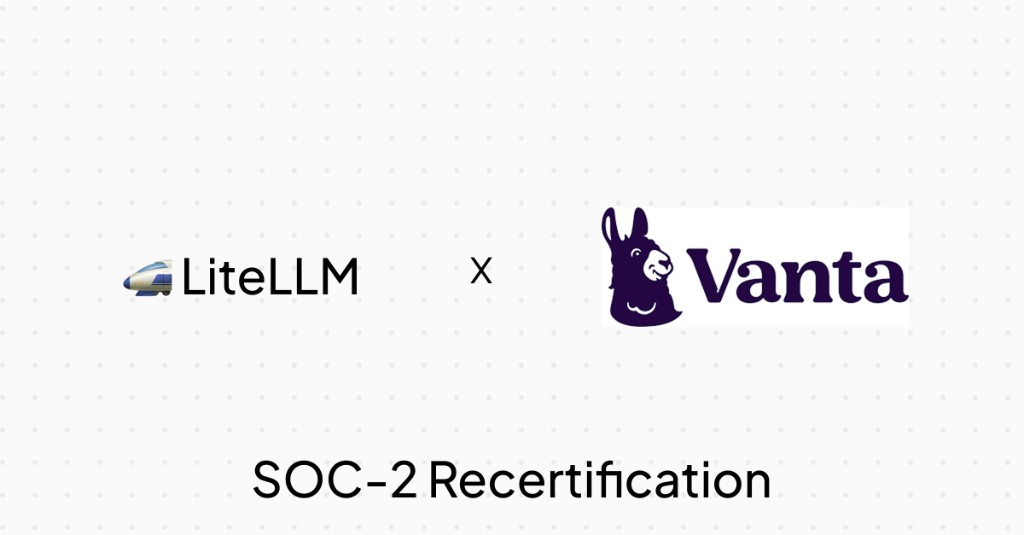
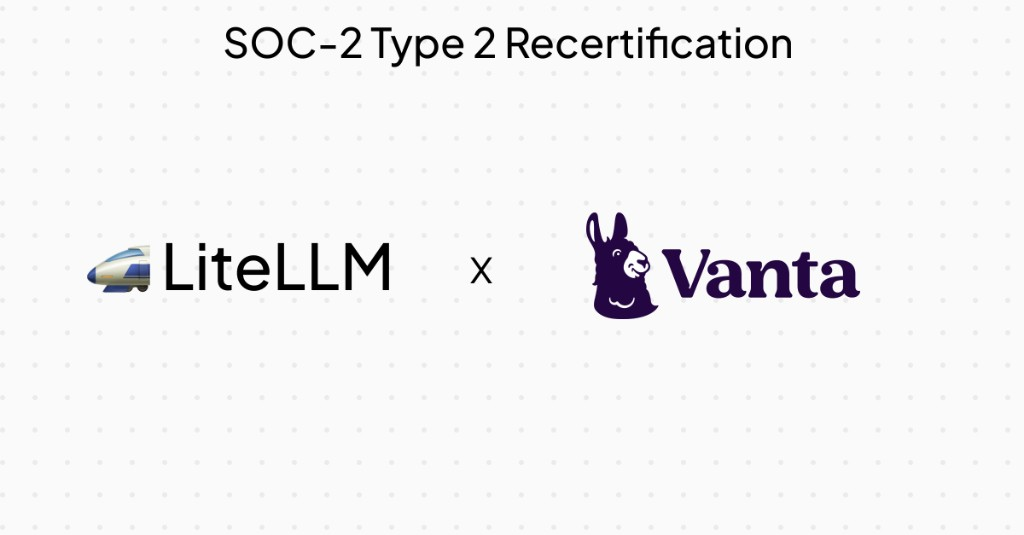
docs: cleanup image

diff --git a/docs/my-website/blog/vanta_compliance_recertification/index.md b/docs/my-website/blog/vanta_compliance_recertification/index.md
@@ -1,17 +1,17 @@
 ---
 slug: vanta-compliance-recertification
-title: "LiteLLM + Vanta: SOC 2 and ISO 27001 Recertification"
+title: "LiteLLM + Vanta: SOC 2 Type 2 and ISO 27001 Recertification"
 date: 2026-03-30T10:00:00
 authors:
   - krrish
-description: "LiteLLM is partnering with Vanta on SOC 2 and ISO 27001 recertification and engaging independent auditors for verification."
+description: "LiteLLM is partnering with Vanta on SOC 2 Type 2 and ISO 27001 recertification and engaging independent auditors for verification."
 tags: [security, compliance]
 hide_table_of_contents: true
 ---
 
 ![LiteLLM x Vanta SOC-2 Recertification](/img/blog/vanta_soc2_recertification.png)
 
-We are partnering with [Vanta](https://www.vanta.com/) to recertify LiteLLM's compliance for SOC 2 and ISO 27001.
+We are partnering with [Vanta](https://www.vanta.com/) to recertify LiteLLM's compliance for SOC 2 Type 2 and ISO 27001.
 
 As part of this process, we are also identifying independent auditors to validate and verify our compliance posture.
 
